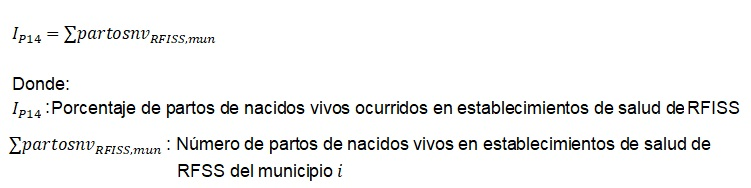
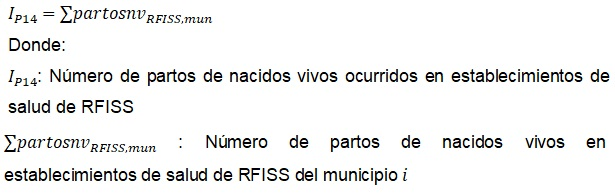
titulo30

diff --git a/pages/Indicador/indicador_p14.html b/pages/Indicador/indicador_p14.html
@@ -48,19 +48,10 @@ folder: Indicador
 						 por UNICEF.</h3>
 	                 <a name="indice1"></a>
 	                 <h3 style="color:#cc181e;">Definiciones y conceptos</h3>
-	                 <p>Es el número de partos de nacidos vivos en los establecimientos de salud de 
-					    los municipios seleccionados respecto del total de partos de nacidos vivos 
-						en el municipio. Nacido vivo es la expulsión o extracción completa de un 
-						producto de la concepción del cuerpo de la madre, independientemente de la 
-						duración del embarazo, que, después de dicha separación, respire o dé cualquier 
-						otra señal de vida, como latidos del corazón, pulsaciones del cordón umbilical 
-						o movimiento apreciable de los músculos voluntarios, tanto si se ha cortado o 
-						no el cordón umbilical o la placenta permanezca o no unida. Cada producto de 
-						un nacimiento que reúna esas condiciones se considera un nacido vivo.<sup>4</sup></p>
+	                 <p>Es el número de partos de nacidos vivos en los establecimientos de salud de las RFISS de los municipios seleccionados. Nacido vivo es la expulsión o extracción completa de un producto de la concepción del cuerpo de la madre, independientemente de la duración del embarazo, que, después de dicha separación, respire o dé cualquier otra señal de vida, como latidos del corazón, pulsaciones del cordón umbilical o movimiento apreciable de los músculos voluntarios, tanto si se ha cortado o no el cordón umbilical o la placenta permanezca o no unida. Cada producto de un nacimiento que reúna esas condiciones se considera un nacido vivo<sup>5</sup></p>
                      <a name="indice2"></a>
 					 <h3 style="color:#cc181e;">Método de cálculo</h3>	
-                      <p> Se obtiene del conteo del número de partos de nacidos vivos en los 
-					      establecimientos de salud de los municipios seleccionados.</p>	
+                      <p> Se obtiene del conteo del número de partos de nacidos vivos en los establecimientos de salud de las RFISS de los municipios seleccionados.</p>	
 						<img class="img-rounded img-responsibe" src="/images/fichas/p14.jpg" alt="" width="601" height="151"> 
 					 <a name="indice3"></a>
 					 <h3 style="color:#cc181e;">Fuente</h3>
@@ -77,7 +68,7 @@ folder: Indicador
 					 <h3 style="color:#cc181e;">Variables</h3>
 					    <ul style="color:#000000;">
 					    <li>Listado de establecimientos de salud que pertenecen a la RFISS</li>
-					    <li>Cantidad de partos de nacidos vivos en RFISS del municipio i (El Alto - Independencia). </li>
+					    <li>Cantidad de partos de nacidos vivos en RFISS del municipio i </li>
 					    </ul>
 					 <a name="indice6"></a>
 					 <h3 style="color:#cc181e;">Tipo</h3>
@@ -91,9 +82,7 @@ folder: Indicador
 					   <li>Municipal (El Alto/Independencia).</li>
 					 </ul>
 					<h3 style="color:#cc181e;">Nota</h3>
-					 <p>Se necesita información acerca del listado de centros de salud que están 
-					  dentro de las RFSS y definir los Centros de Salud y las RFISS que se tomarán 
-					  en cuenta.</p>
+					 <p>Se necesita información acerca del listado de Centros de Salud que están dentro de las RFISS y definir los Centros de Salud y las RFISS que se tomarán en cuenta.</p>
 					
 					 <br> <br/>
 	                 <small> <i><sup>5</sup>Estadísticas Sanitarias Mundiales 2005. OMS.</i></small>
